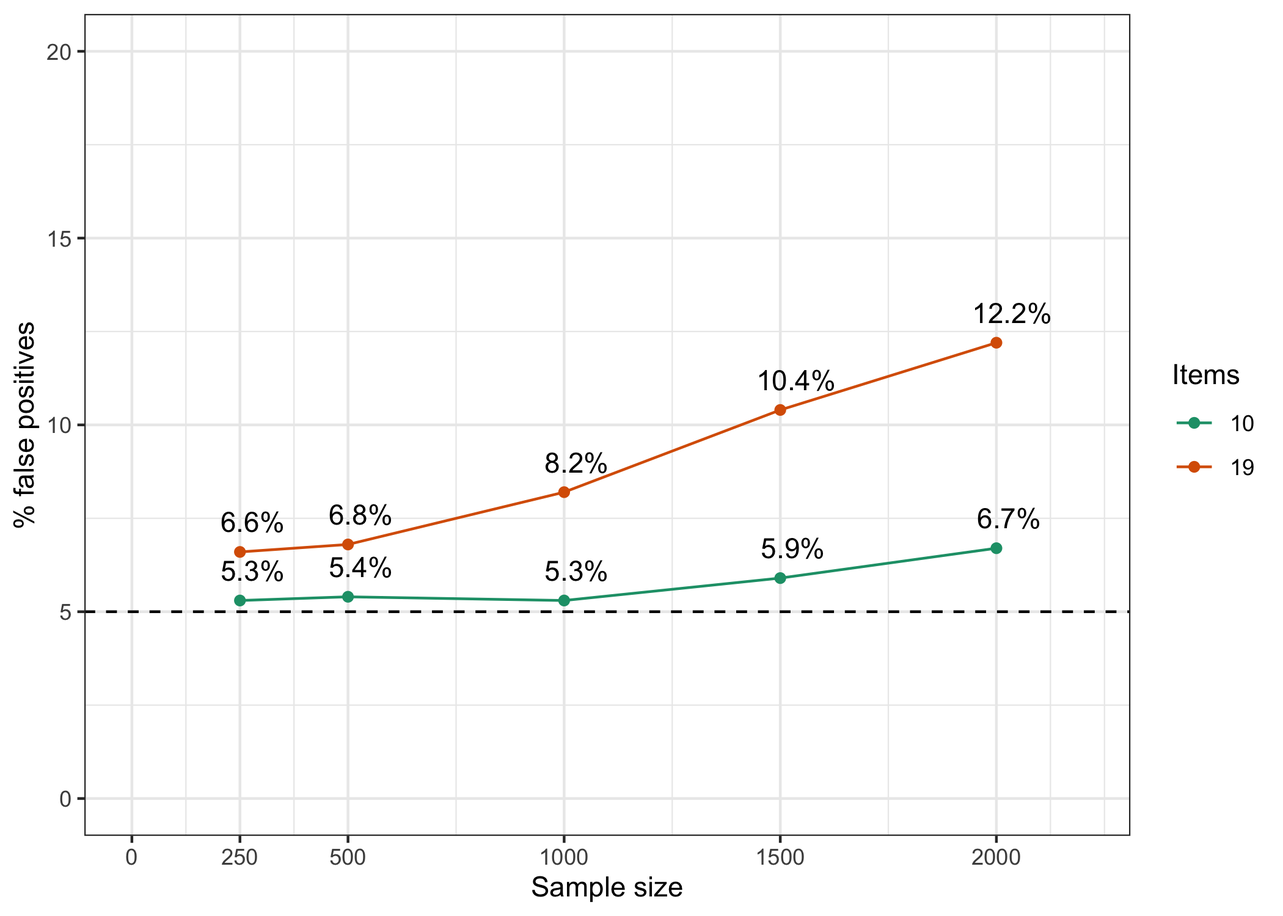
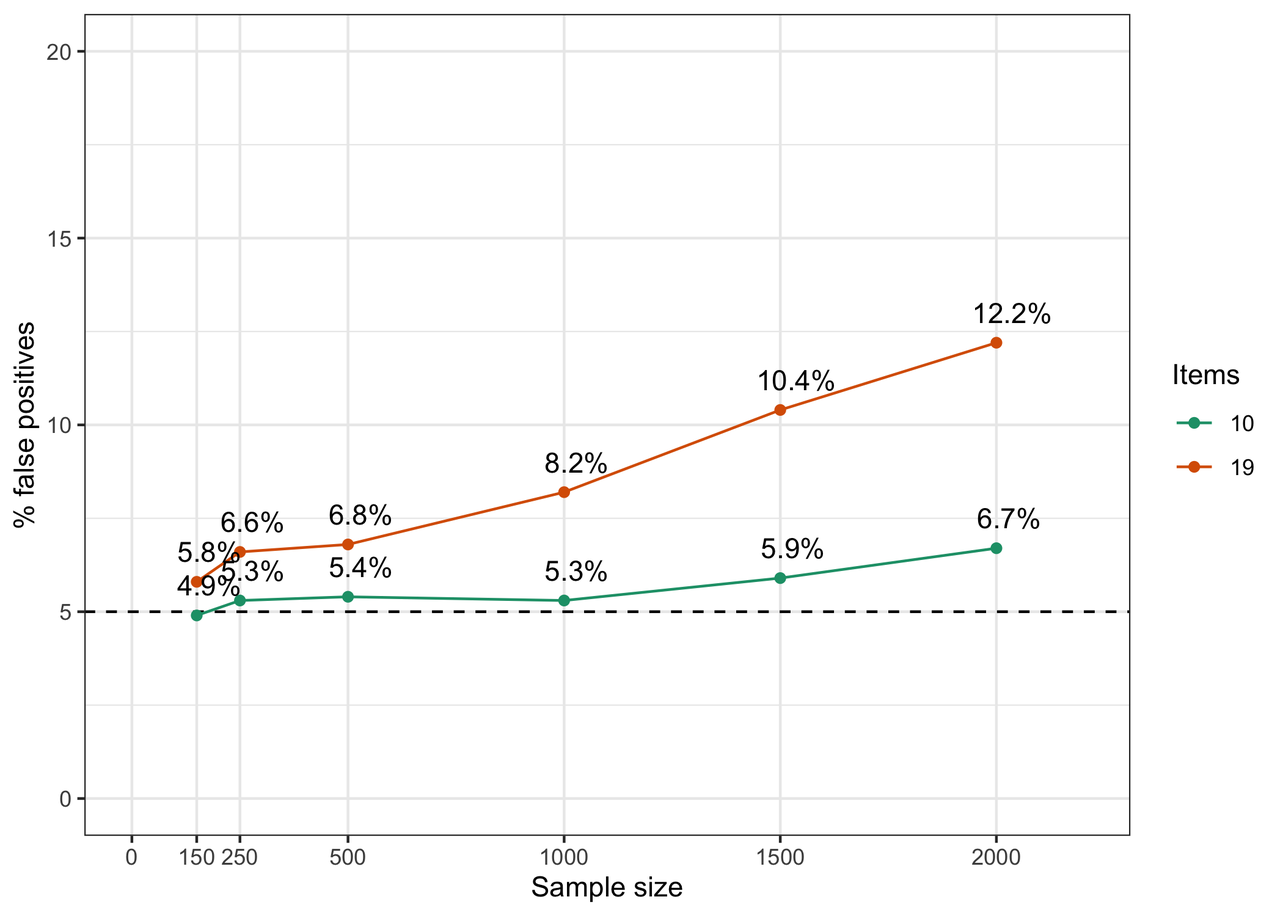
Updated CLRT simulation

Changed region(s): [[0.1238, 0.5827, 0.1857, 0.6747], [0.1548, 0.92, 0.1857, 0.9507]]

diff --git a/docs/clrt.html b/docs/clrt.html
@@ -5,7 +5,7 @@
 <meta name="generator" content="quarto-1.6.40">
 <meta name="viewport" content="width=device-width, initial-scale=1.0, user-scalable=yes">
 <meta name="author" content="Magnus Johansson">
-<meta name="dcterms.date" content="2025-02-07">
+<meta name="dcterms.date" content="2025-08-06">
 <title>Conditional Likelihood Ratio Test and sample size – R, Rasch, etc</title>
 <style>
 code{white-space: pre-wrap;}
@@ -127,10 +127,10 @@ div.csl-indent {
 <meta name="twitter:card" content="summary_large_image">
 <meta name="citation_title" content="Conditional Likelihood Ratio Test and sample size">
 <meta name="citation_author" content="Magnus Johansson">
-<meta name="citation_publication_date" content="2025-02-07">
-<meta name="citation_cover_date" content="2025-02-07">
+<meta name="citation_publication_date" content="2025-08-06">
+<meta name="citation_cover_date" content="2025-08-06">
 <meta name="citation_year" content="2025">
-<meta name="citation_online_date" content="2025-02-07">
+<meta name="citation_online_date" content="2025-08-06">
 <meta name="citation_fulltext_html_url" content="https://pgmj.github.io/clrt.html">
 <meta name="citation_language" content="en">
 <meta name="citation_reference" content="citation_title=A goodness of fit test for the rasch model;,citation_author=Erling B. Andersen;,citation_publication_date=1973-03;,citation_cover_date=1973-03;,citation_year=1973;,citation_fulltext_html_url=https://doi.org/10.1007/BF02291180;,citation_issue=1;,citation_doi=10.1007/BF02291180;,citation_issn=1860-0980;,citation_volume=38;,citation_journal_title=Psychometrika;">
@@ -266,7 +266,7 @@ div.csl-indent {
     <div>
     <div class="quarto-title-meta-heading">Published</div>
     <div class="quarto-title-meta-contents">
-      <p class="date">2025-02-07</p>
+      <p class="date">2025-08-06</p>
     </div>
   </div>
   
@@ -278,6 +278,20 @@ div.csl-indent {
 </header><section id="introduction" class="level1" data-number="1"><h1 data-number="1">
 <span class="header-section-number">1</span> Introduction</h1>
 <p>In my recent preprint on detection of item misfit in Rasch models <span class="citation" data-cites="johansson_detecting_2025">(<a href="#ref-johansson_detecting_2025" role="doc-biblioref">Johansson 2025a</a>)</span>, the conditional likelihood ratio test <span class="citation" data-cites="andersen_goodness_1973">(LRT, <a href="#ref-andersen_goodness_1973" role="doc-biblioref">Andersen 1973</a>)</span> was part of one of the simulation studies. In that study, only the detection rate of misfitting items was assessed. In this brief note, the false detection rate across varying sample sizes will be investigated.</p>
+<div class="callout callout-style-default callout-note callout-titled">
+<div class="callout-header d-flex align-content-center">
+<div class="callout-icon-container">
+<i class="callout-icon"></i>
+</div>
+<div class="callout-title-container flex-fill">
+Note
+</div>
+</div>
+<div class="callout-body-container callout-body">
+<p>The preprint was published in March 2025 in Educational Methods &amp; Psychometrics and can be accessed at <a href="https://pgmj.github.io/rasch_itemfit/" class="uri">https://pgmj.github.io/rasch_itemfit/</a></p>
+<p>On August 6th 2025, I added results for n = 150. This text was originally published on February 7th 2025.</p>
+</div>
+</div>
 </section><section id="method" class="level1" data-number="2"><h1 data-number="2">
 <span class="header-section-number">2</span> Method</h1>
 <p>For simplicity, <a href="https://github.com/pgmj/rasch_itemfit/blob/main/data/simdata10000.rds">the simulated dataset</a> from the previously mentioned preprint will be re-used, and the misfitting item removed. This results in 19 dichotomous items, all simulated to fit the Rasch model. The <code>easyRasch</code> <span class="citation" data-cites="johansson_easyrasch">(<a href="#ref-johansson_easyrasch" role="doc-biblioref">Johansson 2025b</a>)</span> package contains a function to use non-parametric bootstrap with the LRT. The code to do so is presented below. As a comparison, a subset of 10 items from the same data was used to evaluate the impact of number of items on LRT false positive performance.</p>
@@ -291,19 +305,19 @@ div.csl-indent {
 <div class="cell">
 <details class="code-fold"><summary>Code</summary><div class="sourceCode" id="cb2"><pre class="downlit sourceCode r code-with-copy"><code class="sourceCode R"><span><span class="kw"><a href="https://rdrr.io/r/base/library.html">library</a></span><span class="op">(</span><span class="va"><a href="https://dplyr.tidyverse.org">dplyr</a></span><span class="op">)</span></span>
 <span><span class="kw"><a href="https://rdrr.io/r/base/library.html">library</a></span><span class="op">(</span><span class="va"><a href="https://ggplot2.tidyverse.org">ggplot2</a></span><span class="op">)</span></span>
-<span><span class="fu"><a href="https://rdrr.io/r/base/data.frame.html">data.frame</a></span><span class="op">(</span>Percent <span class="op">=</span> <span class="fu"><a href="https://rdrr.io/r/base/c.html">c</a></span><span class="op">(</span><span class="fl">6.6</span>,<span class="fl">6.8</span>,<span class="fl">8.2</span>,<span class="fl">10.4</span>,<span class="fl">12.2</span>, <span class="fl">5.3</span>, <span class="fl">5.4</span>, <span class="fl">5.3</span>, <span class="fl">5.9</span>, <span class="fl">6.7</span><span class="op">)</span>, </span>
-<span>           n <span class="op">=</span> <span class="fu"><a href="https://rdrr.io/r/base/c.html">c</a></span><span class="op">(</span><span class="fl">250</span>,<span class="fl">500</span>,<span class="fl">1000</span>,<span class="fl">1500</span>,<span class="fl">2000</span>,<span class="fl">250</span>,<span class="fl">500</span>,<span class="fl">1000</span>,<span class="fl">1500</span>,<span class="fl">2000</span><span class="op">)</span>,</span>
-<span>           k <span class="op">=</span> <span class="fu"><a href="https://rdrr.io/r/base/factor.html">factor</a></span><span class="op">(</span><span class="fu"><a href="https://rdrr.io/r/base/c.html">c</a></span><span class="op">(</span><span class="fl">19</span>,<span class="fl">19</span>,<span class="fl">19</span>,<span class="fl">19</span>,<span class="fl">19</span>,<span class="fl">10</span>,<span class="fl">10</span>,<span class="fl">10</span>,<span class="fl">10</span>,<span class="fl">10</span><span class="op">)</span><span class="op">)</span><span class="op">)</span> <span class="op"><a href="https://magrittr.tidyverse.org/reference/pipe.html">%&gt;%</a></span> </span>
+<span><span class="fu"><a href="https://rdrr.io/r/base/data.frame.html">data.frame</a></span><span class="op">(</span>Percent <span class="op">=</span> <span class="fu"><a href="https://rdrr.io/r/base/c.html">c</a></span><span class="op">(</span><span class="fl">5.8</span>,<span class="fl">6.6</span>,<span class="fl">6.8</span>,<span class="fl">8.2</span>,<span class="fl">10.4</span>,<span class="fl">12.2</span>, <span class="fl">4.9</span>, <span class="fl">5.3</span>, <span class="fl">5.4</span>, <span class="fl">5.3</span>, <span class="fl">5.9</span>, <span class="fl">6.7</span><span class="op">)</span>, </span>
+<span>           n <span class="op">=</span> <span class="fu"><a href="https://rdrr.io/r/base/c.html">c</a></span><span class="op">(</span><span class="fl">150</span>,<span class="fl">250</span>,<span class="fl">500</span>,<span class="fl">1000</span>,<span class="fl">1500</span>,<span class="fl">2000</span>,<span class="fl">150</span>,<span class="fl">250</span>,<span class="fl">500</span>,<span class="fl">1000</span>,<span class="fl">1500</span>,<span class="fl">2000</span><span class="op">)</span>,</span>
+<span>           k <span class="op">=</span> <span class="fu"><a href="https://rdrr.io/r/base/factor.html">factor</a></span><span class="op">(</span><span class="fu"><a href="https://rdrr.io/r/base/c.html">c</a></span><span class="op">(</span><span class="fl">19</span>,<span class="fl">19</span>,<span class="fl">19</span>,<span class="fl">19</span>,<span class="fl">19</span>,<span class="fl">19</span>,<span class="fl">10</span>,<span class="fl">10</span>,<span class="fl">10</span>,<span class="fl">10</span>,<span class="fl">10</span>,<span class="fl">10</span><span class="op">)</span><span class="op">)</span><span class="op">)</span> <span class="op"><a href="https://magrittr.tidyverse.org/reference/pipe.html">%&gt;%</a></span> </span>
 <span>  <span class="fu"><a href="https://ggplot2.tidyverse.org/reference/ggplot.html">ggplot</a></span><span class="op">(</span><span class="fu"><a href="https://ggplot2.tidyverse.org/reference/aes.html">aes</a></span><span class="op">(</span>x <span class="op">=</span> <span class="va">n</span>, y <span class="op">=</span> <span class="va">Percent</span>, color <span class="op">=</span> <span class="va">k</span><span class="op">)</span><span class="op">)</span> <span class="op">+</span> </span>
 <span>  <span class="fu"><a href="https://ggplot2.tidyverse.org/reference/geom_abline.html">geom_hline</a></span><span class="op">(</span>yintercept <span class="op">=</span> <span class="fl">5</span>, linetype <span class="op">=</span> <span class="st">"dashed"</span><span class="op">)</span> <span class="op">+</span></span>
-<span>  <span class="fu"><a href="https://ggplot2.tidyverse.org/reference/geom_point.html">geom_point</a></span><span class="op">(</span>position <span class="op">=</span> <span class="st">"dodge"</span><span class="op">)</span> <span class="op">+</span></span>
+<span>  <span class="fu"><a href="https://ggplot2.tidyverse.org/reference/geom_point.html">geom_point</a></span><span class="op">(</span><span class="op">)</span> <span class="op">+</span></span>
 <span>  <span class="fu"><a href="https://ggplot2.tidyverse.org/reference/geom_path.html">geom_line</a></span><span class="op">(</span><span class="op">)</span> <span class="op">+</span></span>
 <span>  <span class="fu"><a href="https://ggplot2.tidyverse.org/reference/geom_text.html">geom_text</a></span><span class="op">(</span><span class="fu"><a href="https://ggplot2.tidyverse.org/reference/aes.html">aes</a></span><span class="op">(</span>label <span class="op">=</span> <span class="fu"><a href="https://rdrr.io/r/base/paste.html">paste0</a></span><span class="op">(</span><span class="va">Percent</span>,<span class="st">"%"</span><span class="op">)</span><span class="op">)</span>,</span>
 <span>            position <span class="op">=</span> <span class="fu"><a href="https://ggplot2.tidyverse.org/reference/position_dodge.html">position_dodge</a></span><span class="op">(</span>width <span class="op">=</span> <span class="fl">9</span><span class="op">)</span>,</span>
 <span>            hjust <span class="op">=</span> <span class="fl">0.3</span>, vjust <span class="op">=</span> <span class="op">-</span><span class="fl">1</span>,</span>
 <span>            color <span class="op">=</span> <span class="st">"black"</span></span>
 <span>            <span class="op">)</span> <span class="op">+</span></span>
-<span>  <span class="fu"><a href="https://ggplot2.tidyverse.org/reference/scale_continuous.html">scale_x_continuous</a></span><span class="op">(</span><span class="st">'Sample size'</span>, limits <span class="op">=</span> <span class="fu"><a href="https://rdrr.io/r/base/c.html">c</a></span><span class="op">(</span><span class="fl">0</span>,<span class="fl">2200</span><span class="op">)</span>, breaks <span class="op">=</span> <span class="fu"><a href="https://rdrr.io/r/base/c.html">c</a></span><span class="op">(</span><span class="fl">0</span>,<span class="fl">250</span>,<span class="fl">500</span>,<span class="fl">1000</span>,<span class="fl">1500</span>,<span class="fl">2000</span><span class="op">)</span><span class="op">)</span> <span class="op">+</span></span>
+<span>  <span class="fu"><a href="https://ggplot2.tidyverse.org/reference/scale_continuous.html">scale_x_continuous</a></span><span class="op">(</span><span class="st">'Sample size'</span>, limits <span class="op">=</span> <span class="fu"><a href="https://rdrr.io/r/base/c.html">c</a></span><span class="op">(</span><span class="fl">0</span>,<span class="fl">2200</span><span class="op">)</span>, breaks <span class="op">=</span> <span class="fu"><a href="https://rdrr.io/r/base/c.html">c</a></span><span class="op">(</span><span class="fl">0</span>,<span class="fl">150</span>,<span class="fl">250</span>,<span class="fl">500</span>,<span class="fl">1000</span>,<span class="fl">1500</span>,<span class="fl">2000</span><span class="op">)</span>, minor_breaks <span class="op">=</span> <span class="cn">NULL</span><span class="op">)</span> <span class="op">+</span></span>
 <span>  <span class="fu"><a href="https://ggplot2.tidyverse.org/reference/scale_continuous.html">scale_y_continuous</a></span><span class="op">(</span><span class="st">'% false positives'</span>, limits <span class="op">=</span> <span class="fu"><a href="https://rdrr.io/r/base/c.html">c</a></span><span class="op">(</span><span class="fl">0</span>,<span class="fl">20</span><span class="op">)</span><span class="op">)</span> <span class="op">+</span></span>
 <span>  <span class="fu"><a href="https://ggplot2.tidyverse.org/reference/scale_brewer.html">scale_color_brewer</a></span><span class="op">(</span><span class="st">'Items'</span>,palette <span class="op">=</span> <span class="st">"Dark2"</span><span class="op">)</span> <span class="op">+</span></span>
 <span>  <span class="fu"><a href="https://ggplot2.tidyverse.org/reference/ggtheme.html">theme_bw</a></span><span class="op">(</span><span class="op">)</span></span></code><button title="Copy to Clipboard" class="code-copy-button"><i class="bi"></i></button></pre></div>
@@ -320,7 +334,8 @@ Figure&nbsp;1: Percent of false positives indicated by LRT bootstrap procedure a
 </div>
 </section><section id="discussion" class="level1" data-number="4"><h1 data-number="4">
 <span class="header-section-number">4</span> Discussion</h1>
-<p>This is a brief note, not a full scale simulation study. Many variables could be manipulated to better understand the expected behavior of LRT when all items fit a Rasch model. Nevertheless, this small study provides some useful information about the relationship between sample size, number of items, and false positive rate for the LRT. Even at the smaller sample sizes of 250 and 500, the false positive rate is above the expected 5%. The effect is stronger for the condition with more items. It seems clear that one should not rely too heavily on the LRT in determining model fit, especially when sample size is above 1000 and number of items is high.</p>
+<p>This is a brief note, not a full scale simulation study. Many variables could be manipulated to better understand the expected behavior of LRT when all items fit a Rasch model. Nevertheless, this small study provides some useful information about the relationship between sample size, number of items, and false positive rate for the LRT. Even at the smaller sample sizes of 250 and 500, the false positive rate is above the expected 5% for both 10 and 19 item conditions. The effect is stronger for the condition with more items. It seems clear that one should not rely too heavily on the LRT in determining model fit, especially when sample size is above 1000 and number of items is high.</p>
+<p>While the <code>RIbootLRT()</code> function could be used instead of the standard CLRT, one would need to run simulations adapted to the dataset being analyzed to understand which sample size should be used with the bootstrap CLRT function. I might write such a function at some point in time.</p>
 <p>I will add a condition using polytomous items later on.</p>
 </section><section id="references" class="level1" data-number="5">
 
@@ -342,13 +357,13 @@ Johansson, Magnus. 2025a. <span>“Detecting Item Misfit in <span>Rasch</span> M
 </div></section><section class="quarto-appendix-contents" id="quarto-reuse"><h2 class="anchored quarto-appendix-heading">Reuse</h2><div class="quarto-appendix-contents"><div><a rel="license" href="https://creativecommons.org/licenses/by/4.0/">CC BY 4.0</a></div></div></section><section class="quarto-appendix-contents" id="quarto-citation"><h2 class="anchored quarto-appendix-heading">Citation</h2><div><div class="quarto-appendix-secondary-label">BibTeX citation:</div><pre class="sourceCode code-with-copy quarto-appendix-bibtex"><code class="sourceCode bibtex">@online{johansson2025,
   author = {Johansson, Magnus},
   title = {Conditional {Likelihood} {Ratio} {Test} and Sample Size},
-  date = {2025-02-07},
+  date = {2025-08-06},
   url = {https://pgmj.github.io/clrt.html},
   langid = {en}
 }
 </code><button title="Copy to Clipboard" class="code-copy-button"><i class="bi"></i></button></pre><div class="quarto-appendix-secondary-label">For attribution, please cite this work as:</div><div id="ref-johansson2025" class="csl-entry quarto-appendix-citeas" role="listitem">
 Johansson, Magnus. 2025. <span>“Conditional Likelihood Ratio Test and
-Sample Size.”</span> February 7, 2025. <a href="https://pgmj.github.io/clrt.html">https://pgmj.github.io/clrt.html</a>.
+Sample Size.”</span> August 6, 2025. <a href="https://pgmj.github.io/clrt.html">https://pgmj.github.io/clrt.html</a>.
 </div></div></section></div></main><!-- /main --><script id="quarto-html-after-body" type="application/javascript">
 window.document.addEventListener("DOMContentLoaded", function (event) {
   const toggleBodyColorMode = (bsSheetEl) => {
@@ -826,7 +841,7 @@ window.document.addEventListener("DOMContentLoaded", function (event) {
 <span id="cb3-6"><a href="#cb3-6" aria-hidden="true" tabindex="-1"></a><span class="co">  affiliation: 'RISE Research Institutes of Sweden'</span></span>
 <span id="cb3-7"><a href="#cb3-7" aria-hidden="true" tabindex="-1"></a><span class="co">  affiliation-url: 'https://ri.se/shic'</span></span>
 <span id="cb3-8"><a href="#cb3-8" aria-hidden="true" tabindex="-1"></a><span class="co">  orcid: '0000-0003-1669-592X'</span></span>
-<span id="cb3-9"><a href="#cb3-9" aria-hidden="true" tabindex="-1"></a><span class="an">date:</span><span class="co"> 2025-02-07</span></span>
+<span id="cb3-9"><a href="#cb3-9" aria-hidden="true" tabindex="-1"></a><span class="an">date:</span><span class="co"> 2025-08-06</span></span>
 <span id="cb3-10"><a href="#cb3-10" aria-hidden="true" tabindex="-1"></a><span class="an">date-format:</span><span class="co"> iso</span></span>
 <span id="cb3-11"><a href="#cb3-11" aria-hidden="true" tabindex="-1"></a><span class="an">google-scholar:</span><span class="co"> true</span></span>
 <span id="cb3-12"><a href="#cb3-12" aria-hidden="true" tabindex="-1"></a><span class="an">citation:</span></span>
@@ -847,53 +862,61 @@ window.document.addEventListener("DOMContentLoaded", function (event) {
 <span id="cb3-27"><a href="#cb3-27" aria-hidden="true" tabindex="-1"></a></span>
 <span id="cb3-28"><a href="#cb3-28" aria-hidden="true" tabindex="-1"></a>In my recent preprint on detection of item misfit in Rasch models <span class="co">[</span><span class="ot">@johansson_detecting_2025</span><span class="co">]</span>, the conditional likelihood ratio test <span class="co">[</span><span class="ot">LRT, @andersen_goodness_1973</span><span class="co">]</span> was part of one of the simulation studies. In that study, only the detection rate of misfitting items was assessed. In this brief note, the false detection rate across varying sample sizes will be investigated.</span>
 <span id="cb3-29"><a href="#cb3-29" aria-hidden="true" tabindex="-1"></a></span>
-<span id="cb3-30"><a href="#cb3-30" aria-hidden="true" tabindex="-1"></a><span class="fu"># Method</span></span>
-<span id="cb3-31"><a href="#cb3-31" aria-hidden="true" tabindex="-1"></a></span>
-<span id="cb3-32"><a href="#cb3-32" aria-hidden="true" tabindex="-1"></a>For simplicity, <span class="co">[</span><span class="ot">the simulated dataset</span><span class="co">](https://github.com/pgmj/rasch_itemfit/blob/main/data/simdata10000.rds)</span> from the previously mentioned preprint will be re-used, and the misfitting item removed. This results in 19 dichotomous items, all simulated to fit the Rasch model. The <span class="in">`easyRasch`</span> <span class="co">[</span><span class="ot">@johansson_easyrasch</span><span class="co">]</span> package contains a function to use non-parametric bootstrap with the LRT. The code to do so is presented below. As a comparison, a subset of 10 items from the same data was used to evaluate the impact of number of items on LRT false positive performance.</span>
-<span id="cb3-33"><a href="#cb3-33" aria-hidden="true" tabindex="-1"></a></span>
-<span id="cb3-36"><a href="#cb3-36" aria-hidden="true" tabindex="-1"></a><span class="in">```{r}</span></span>
-<span id="cb3-37"><a href="#cb3-37" aria-hidden="true" tabindex="-1"></a><span class="co">#| eval: false</span></span>
-<span id="cb3-38"><a href="#cb3-38" aria-hidden="true" tabindex="-1"></a><span class="co">#| code-fold: false</span></span>
-<span id="cb3-39"><a href="#cb3-39" aria-hidden="true" tabindex="-1"></a><span class="fu">RIbootLRT</span>(simdata[[<span class="dv">1</span>]][,<span class="sc">-</span><span class="dv">9</span>], <span class="at">iterations =</span> <span class="dv">5000</span>, <span class="at">samplesize =</span> <span class="dv">300</span>, <span class="at">cpu =</span> <span class="dv">8</span>)</span>
-<span id="cb3-40"><a href="#cb3-40" aria-hidden="true" tabindex="-1"></a><span class="in">```</span></span>
-<span id="cb3-41"><a href="#cb3-41" aria-hidden="true" tabindex="-1"></a></span>
-<span id="cb3-42"><a href="#cb3-42" aria-hidden="true" tabindex="-1"></a>Each sample size variation used 5000 bootstrap iterations. </span>
-<span id="cb3-43"><a href="#cb3-43" aria-hidden="true" tabindex="-1"></a></span>
-<span id="cb3-44"><a href="#cb3-44" aria-hidden="true" tabindex="-1"></a><span class="fu"># Results</span></span>
-<span id="cb3-45"><a href="#cb3-45" aria-hidden="true" tabindex="-1"></a></span>
-<span id="cb3-46"><a href="#cb3-46" aria-hidden="true" tabindex="-1"></a>Results are presented in @fig-results.</span>
+<span id="cb3-30"><a href="#cb3-30" aria-hidden="true" tabindex="-1"></a>::: {.callout-note}</span>
+<span id="cb3-31"><a href="#cb3-31" aria-hidden="true" tabindex="-1"></a>The preprint was published in March 2025 in Educational Methods &amp; Psychometrics and can be accessed at <span class="ot">&lt;https://pgmj.github.io/rasch_itemfit/&gt;</span> </span>
+<span id="cb3-32"><a href="#cb3-32" aria-hidden="true" tabindex="-1"></a></span>
+<span id="cb3-33"><a href="#cb3-33" aria-hidden="true" tabindex="-1"></a>On August 6th 2025, I added results for n = 150. This text was originally published on February 7th 2025.</span>
+<span id="cb3-34"><a href="#cb3-34" aria-hidden="true" tabindex="-1"></a>:::</span>
+<span id="cb3-35"><a href="#cb3-35" aria-hidden="true" tabindex="-1"></a></span>
+<span id="cb3-36"><a href="#cb3-36" aria-hidden="true" tabindex="-1"></a><span class="fu"># Method</span></span>
+<span id="cb3-37"><a href="#cb3-37" aria-hidden="true" tabindex="-1"></a></span>
+<span id="cb3-38"><a href="#cb3-38" aria-hidden="true" tabindex="-1"></a>For simplicity, <span class="co">[</span><span class="ot">the simulated dataset</span><span class="co">](https://github.com/pgmj/rasch_itemfit/blob/main/data/simdata10000.rds)</span> from the previously mentioned preprint will be re-used, and the misfitting item removed. This results in 19 dichotomous items, all simulated to fit the Rasch model. The <span class="in">`easyRasch`</span> <span class="co">[</span><span class="ot">@johansson_easyrasch</span><span class="co">]</span> package contains a function to use non-parametric bootstrap with the LRT. The code to do so is presented below. As a comparison, a subset of 10 items from the same data was used to evaluate the impact of number of items on LRT false positive performance.</span>
+<span id="cb3-39"><a href="#cb3-39" aria-hidden="true" tabindex="-1"></a></span>
+<span id="cb3-42"><a href="#cb3-42" aria-hidden="true" tabindex="-1"></a><span class="in">```{r}</span></span>
+<span id="cb3-43"><a href="#cb3-43" aria-hidden="true" tabindex="-1"></a><span class="co">#| eval: false</span></span>
+<span id="cb3-44"><a href="#cb3-44" aria-hidden="true" tabindex="-1"></a><span class="co">#| code-fold: false</span></span>
+<span id="cb3-45"><a href="#cb3-45" aria-hidden="true" tabindex="-1"></a><span class="fu">RIbootLRT</span>(simdata[[<span class="dv">1</span>]][,<span class="sc">-</span><span class="dv">9</span>], <span class="at">iterations =</span> <span class="dv">5000</span>, <span class="at">samplesize =</span> <span class="dv">300</span>, <span class="at">cpu =</span> <span class="dv">8</span>)</span>
+<span id="cb3-46"><a href="#cb3-46" aria-hidden="true" tabindex="-1"></a><span class="in">```</span></span>
 <span id="cb3-47"><a href="#cb3-47" aria-hidden="true" tabindex="-1"></a></span>
-<span id="cb3-50"><a href="#cb3-50" aria-hidden="true" tabindex="-1"></a><span class="in">```{r}</span></span>
-<span id="cb3-51"><a href="#cb3-51" aria-hidden="true" tabindex="-1"></a><span class="co">#| label: fig-results</span></span>
-<span id="cb3-52"><a href="#cb3-52" aria-hidden="true" tabindex="-1"></a><span class="co">#| fig-cap: Percent of false positives indicated by LRT bootstrap procedure across sample sizes</span></span>
-<span id="cb3-53"><a href="#cb3-53" aria-hidden="true" tabindex="-1"></a><span class="fu">library</span>(dplyr)</span>
-<span id="cb3-54"><a href="#cb3-54" aria-hidden="true" tabindex="-1"></a><span class="fu">library</span>(ggplot2)</span>
-<span id="cb3-55"><a href="#cb3-55" aria-hidden="true" tabindex="-1"></a><span class="fu">data.frame</span>(<span class="at">Percent =</span> <span class="fu">c</span>(<span class="fl">6.6</span>,<span class="fl">6.8</span>,<span class="fl">8.2</span>,<span class="fl">10.4</span>,<span class="fl">12.2</span>, <span class="fl">5.3</span>, <span class="fl">5.4</span>, <span class="fl">5.3</span>, <span class="fl">5.9</span>, <span class="fl">6.7</span>), </span>
-<span id="cb3-56"><a href="#cb3-56" aria-hidden="true" tabindex="-1"></a>           <span class="at">n =</span> <span class="fu">c</span>(<span class="dv">250</span>,<span class="dv">500</span>,<span class="dv">1000</span>,<span class="dv">1500</span>,<span class="dv">2000</span>,<span class="dv">250</span>,<span class="dv">500</span>,<span class="dv">1000</span>,<span class="dv">1500</span>,<span class="dv">2000</span>),</span>
-<span id="cb3-57"><a href="#cb3-57" aria-hidden="true" tabindex="-1"></a>           <span class="at">k =</span> <span class="fu">factor</span>(<span class="fu">c</span>(<span class="dv">19</span>,<span class="dv">19</span>,<span class="dv">19</span>,<span class="dv">19</span>,<span class="dv">19</span>,<span class="dv">10</span>,<span class="dv">10</span>,<span class="dv">10</span>,<span class="dv">10</span>,<span class="dv">10</span>))) <span class="sc">%&gt;%</span> </span>
-<span id="cb3-58"><a href="#cb3-58" aria-hidden="true" tabindex="-1"></a>  <span class="fu">ggplot</span>(<span class="fu">aes</span>(<span class="at">x =</span> n, <span class="at">y =</span> Percent, <span class="at">color =</span> k)) <span class="sc">+</span> </span>
-<span id="cb3-59"><a href="#cb3-59" aria-hidden="true" tabindex="-1"></a>  <span class="fu">geom_hline</span>(<span class="at">yintercept =</span> <span class="dv">5</span>, <span class="at">linetype =</span> <span class="st">"dashed"</span>) <span class="sc">+</span></span>
-<span id="cb3-60"><a href="#cb3-60" aria-hidden="true" tabindex="-1"></a>  <span class="fu">geom_point</span>(<span class="at">position =</span> <span class="st">"dodge"</span>) <span class="sc">+</span></span>
-<span id="cb3-61"><a href="#cb3-61" aria-hidden="true" tabindex="-1"></a>  <span class="fu">geom_line</span>() <span class="sc">+</span></span>
-<span id="cb3-62"><a href="#cb3-62" aria-hidden="true" tabindex="-1"></a>  <span class="fu">geom_text</span>(<span class="fu">aes</span>(<span class="at">label =</span> <span class="fu">paste0</span>(Percent,<span class="st">"%"</span>)),</span>
-<span id="cb3-63"><a href="#cb3-63" aria-hidden="true" tabindex="-1"></a>            <span class="at">position =</span> <span class="fu">position_dodge</span>(<span class="at">width =</span> <span class="dv">9</span>),</span>
-<span id="cb3-64"><a href="#cb3-64" aria-hidden="true" tabindex="-1"></a>            <span class="at">hjust =</span> <span class="fl">0.3</span>, <span class="at">vjust =</span> <span class="sc">-</span><span class="dv">1</span>,</span>
-<span id="cb3-65"><a href="#cb3-65" aria-hidden="true" tabindex="-1"></a>            <span class="at">color =</span> <span class="st">"black"</span></span>
-<span id="cb3-66"><a href="#cb3-66" aria-hidden="true" tabindex="-1"></a>            ) <span class="sc">+</span></span>
-<span id="cb3-67"><a href="#cb3-67" aria-hidden="true" tabindex="-1"></a>  <span class="fu">scale_x_continuous</span>(<span class="st">'Sample size'</span>, <span class="at">limits =</span> <span class="fu">c</span>(<span class="dv">0</span>,<span class="dv">2200</span>), <span class="at">breaks =</span> <span class="fu">c</span>(<span class="dv">0</span>,<span class="dv">250</span>,<span class="dv">500</span>,<span class="dv">1000</span>,<span class="dv">1500</span>,<span class="dv">2000</span>)) <span class="sc">+</span></span>
-<span id="cb3-68"><a href="#cb3-68" aria-hidden="true" tabindex="-1"></a>  <span class="fu">scale_y_continuous</span>(<span class="st">'% false positives'</span>, <span class="at">limits =</span> <span class="fu">c</span>(<span class="dv">0</span>,<span class="dv">20</span>)) <span class="sc">+</span></span>
-<span id="cb3-69"><a href="#cb3-69" aria-hidden="true" tabindex="-1"></a>  <span class="fu">scale_color_brewer</span>(<span class="st">'Items'</span>,<span class="at">palette =</span> <span class="st">"Dark2"</span>) <span class="sc">+</span></span>
-<span id="cb3-70"><a href="#cb3-70" aria-hidden="true" tabindex="-1"></a>  <span class="fu">theme_bw</span>()</span>
-<span id="cb3-71"><a href="#cb3-71" aria-hidden="true" tabindex="-1"></a><span class="in">```</span></span>
-<span id="cb3-72"><a href="#cb3-72" aria-hidden="true" tabindex="-1"></a></span>
-<span id="cb3-73"><a href="#cb3-73" aria-hidden="true" tabindex="-1"></a></span>
-<span id="cb3-74"><a href="#cb3-74" aria-hidden="true" tabindex="-1"></a><span class="fu"># Discussion</span></span>
-<span id="cb3-75"><a href="#cb3-75" aria-hidden="true" tabindex="-1"></a></span>
-<span id="cb3-76"><a href="#cb3-76" aria-hidden="true" tabindex="-1"></a>This is a brief note, not a full scale simulation study. Many variables could be manipulated to better understand the expected behavior of LRT when all items fit a Rasch model. Nevertheless, this small study provides some useful information about the relationship between sample size, number of items, and false positive rate for the LRT. Even at the smaller sample sizes of 250 and 500, the false positive rate is above the expected 5%. The effect is stronger for the condition with more items. It seems clear that one should not rely too heavily on the LRT in determining model fit, especially when sample size is above 1000 and number of items is high.</span>
-<span id="cb3-77"><a href="#cb3-77" aria-hidden="true" tabindex="-1"></a></span>
-<span id="cb3-78"><a href="#cb3-78" aria-hidden="true" tabindex="-1"></a>I will add a condition using polytomous items later on.</span>
+<span id="cb3-48"><a href="#cb3-48" aria-hidden="true" tabindex="-1"></a>Each sample size variation used 5000 bootstrap iterations. </span>
+<span id="cb3-49"><a href="#cb3-49" aria-hidden="true" tabindex="-1"></a></span>
+<span id="cb3-50"><a href="#cb3-50" aria-hidden="true" tabindex="-1"></a><span class="fu"># Results</span></span>
+<span id="cb3-51"><a href="#cb3-51" aria-hidden="true" tabindex="-1"></a></span>
+<span id="cb3-52"><a href="#cb3-52" aria-hidden="true" tabindex="-1"></a>Results are presented in @fig-results.</span>
+<span id="cb3-53"><a href="#cb3-53" aria-hidden="true" tabindex="-1"></a></span>
+<span id="cb3-56"><a href="#cb3-56" aria-hidden="true" tabindex="-1"></a><span class="in">```{r}</span></span>
+<span id="cb3-57"><a href="#cb3-57" aria-hidden="true" tabindex="-1"></a><span class="co">#| label: fig-results</span></span>
+<span id="cb3-58"><a href="#cb3-58" aria-hidden="true" tabindex="-1"></a><span class="co">#| fig-cap: Percent of false positives indicated by LRT bootstrap procedure across sample sizes</span></span>
+<span id="cb3-59"><a href="#cb3-59" aria-hidden="true" tabindex="-1"></a><span class="fu">library</span>(dplyr)</span>
+<span id="cb3-60"><a href="#cb3-60" aria-hidden="true" tabindex="-1"></a><span class="fu">library</span>(ggplot2)</span>
+<span id="cb3-61"><a href="#cb3-61" aria-hidden="true" tabindex="-1"></a><span class="fu">data.frame</span>(<span class="at">Percent =</span> <span class="fu">c</span>(<span class="fl">5.8</span>,<span class="fl">6.6</span>,<span class="fl">6.8</span>,<span class="fl">8.2</span>,<span class="fl">10.4</span>,<span class="fl">12.2</span>, <span class="fl">4.9</span>, <span class="fl">5.3</span>, <span class="fl">5.4</span>, <span class="fl">5.3</span>, <span class="fl">5.9</span>, <span class="fl">6.7</span>), </span>
+<span id="cb3-62"><a href="#cb3-62" aria-hidden="true" tabindex="-1"></a>           <span class="at">n =</span> <span class="fu">c</span>(<span class="dv">150</span>,<span class="dv">250</span>,<span class="dv">500</span>,<span class="dv">1000</span>,<span class="dv">1500</span>,<span class="dv">2000</span>,<span class="dv">150</span>,<span class="dv">250</span>,<span class="dv">500</span>,<span class="dv">1000</span>,<span class="dv">1500</span>,<span class="dv">2000</span>),</span>
+<span id="cb3-63"><a href="#cb3-63" aria-hidden="true" tabindex="-1"></a>           <span class="at">k =</span> <span class="fu">factor</span>(<span class="fu">c</span>(<span class="dv">19</span>,<span class="dv">19</span>,<span class="dv">19</span>,<span class="dv">19</span>,<span class="dv">19</span>,<span class="dv">19</span>,<span class="dv">10</span>,<span class="dv">10</span>,<span class="dv">10</span>,<span class="dv">10</span>,<span class="dv">10</span>,<span class="dv">10</span>))) <span class="sc">%&gt;%</span> </span>
+<span id="cb3-64"><a href="#cb3-64" aria-hidden="true" tabindex="-1"></a>  <span class="fu">ggplot</span>(<span class="fu">aes</span>(<span class="at">x =</span> n, <span class="at">y =</span> Percent, <span class="at">color =</span> k)) <span class="sc">+</span> </span>
+<span id="cb3-65"><a href="#cb3-65" aria-hidden="true" tabindex="-1"></a>  <span class="fu">geom_hline</span>(<span class="at">yintercept =</span> <span class="dv">5</span>, <span class="at">linetype =</span> <span class="st">"dashed"</span>) <span class="sc">+</span></span>
+<span id="cb3-66"><a href="#cb3-66" aria-hidden="true" tabindex="-1"></a>  <span class="fu">geom_point</span>() <span class="sc">+</span></span>
+<span id="cb3-67"><a href="#cb3-67" aria-hidden="true" tabindex="-1"></a>  <span class="fu">geom_line</span>() <span class="sc">+</span></span>
+<span id="cb3-68"><a href="#cb3-68" aria-hidden="true" tabindex="-1"></a>  <span class="fu">geom_text</span>(<span class="fu">aes</span>(<span class="at">label =</span> <span class="fu">paste0</span>(Percent,<span class="st">"%"</span>)),</span>
+<span id="cb3-69"><a href="#cb3-69" aria-hidden="true" tabindex="-1"></a>            <span class="at">position =</span> <span class="fu">position_dodge</span>(<span class="at">width =</span> <span class="dv">9</span>),</span>
+<span id="cb3-70"><a href="#cb3-70" aria-hidden="true" tabindex="-1"></a>            <span class="at">hjust =</span> <span class="fl">0.3</span>, <span class="at">vjust =</span> <span class="sc">-</span><span class="dv">1</span>,</span>
+<span id="cb3-71"><a href="#cb3-71" aria-hidden="true" tabindex="-1"></a>            <span class="at">color =</span> <span class="st">"black"</span></span>
+<span id="cb3-72"><a href="#cb3-72" aria-hidden="true" tabindex="-1"></a>            ) <span class="sc">+</span></span>
+<span id="cb3-73"><a href="#cb3-73" aria-hidden="true" tabindex="-1"></a>  <span class="fu">scale_x_continuous</span>(<span class="st">'Sample size'</span>, <span class="at">limits =</span> <span class="fu">c</span>(<span class="dv">0</span>,<span class="dv">2200</span>), <span class="at">breaks =</span> <span class="fu">c</span>(<span class="dv">0</span>,<span class="dv">150</span>,<span class="dv">250</span>,<span class="dv">500</span>,<span class="dv">1000</span>,<span class="dv">1500</span>,<span class="dv">2000</span>), <span class="at">minor_breaks =</span> <span class="cn">NULL</span>) <span class="sc">+</span></span>
+<span id="cb3-74"><a href="#cb3-74" aria-hidden="true" tabindex="-1"></a>  <span class="fu">scale_y_continuous</span>(<span class="st">'% false positives'</span>, <span class="at">limits =</span> <span class="fu">c</span>(<span class="dv">0</span>,<span class="dv">20</span>)) <span class="sc">+</span></span>
+<span id="cb3-75"><a href="#cb3-75" aria-hidden="true" tabindex="-1"></a>  <span class="fu">scale_color_brewer</span>(<span class="st">'Items'</span>,<span class="at">palette =</span> <span class="st">"Dark2"</span>) <span class="sc">+</span></span>
+<span id="cb3-76"><a href="#cb3-76" aria-hidden="true" tabindex="-1"></a>  <span class="fu">theme_bw</span>()</span>
+<span id="cb3-77"><a href="#cb3-77" aria-hidden="true" tabindex="-1"></a><span class="in">```</span></span>
+<span id="cb3-78"><a href="#cb3-78" aria-hidden="true" tabindex="-1"></a></span>
 <span id="cb3-79"><a href="#cb3-79" aria-hidden="true" tabindex="-1"></a></span>
-<span id="cb3-80"><a href="#cb3-80" aria-hidden="true" tabindex="-1"></a><span class="fu"># References</span></span>
+<span id="cb3-80"><a href="#cb3-80" aria-hidden="true" tabindex="-1"></a><span class="fu"># Discussion</span></span>
+<span id="cb3-81"><a href="#cb3-81" aria-hidden="true" tabindex="-1"></a></span>
+<span id="cb3-82"><a href="#cb3-82" aria-hidden="true" tabindex="-1"></a>This is a brief note, not a full scale simulation study. Many variables could be manipulated to better understand the expected behavior of LRT when all items fit a Rasch model. Nevertheless, this small study provides some useful information about the relationship between sample size, number of items, and false positive rate for the LRT. Even at the smaller sample sizes of 250 and 500, the false positive rate is above the expected 5% for both 10 and 19 item conditions. The effect is stronger for the condition with more items. It seems clear that one should not rely too heavily on the LRT in determining model fit, especially when sample size is above 1000 and number of items is high.</span>
+<span id="cb3-83"><a href="#cb3-83" aria-hidden="true" tabindex="-1"></a></span>
+<span id="cb3-84"><a href="#cb3-84" aria-hidden="true" tabindex="-1"></a>While the <span class="in">`RIbootLRT()`</span> function could be used instead of the standard CLRT, one would need to run simulations adapted to the dataset being analyzed to understand which sample size should be used with the bootstrap CLRT function. I might write such a function at some point in time.</span>
+<span id="cb3-85"><a href="#cb3-85" aria-hidden="true" tabindex="-1"></a></span>
+<span id="cb3-86"><a href="#cb3-86" aria-hidden="true" tabindex="-1"></a>I will add a condition using polytomous items later on.</span>
+<span id="cb3-87"><a href="#cb3-87" aria-hidden="true" tabindex="-1"></a></span>
+<span id="cb3-88"><a href="#cb3-88" aria-hidden="true" tabindex="-1"></a><span class="fu"># References</span></span>
 </code><button title="Copy to Clipboard" class="code-copy-button" data-in-quarto-modal=""><i class="bi"></i></button></pre></div>
 </div></div></div></div></div>
 </div> <!-- /content -->
